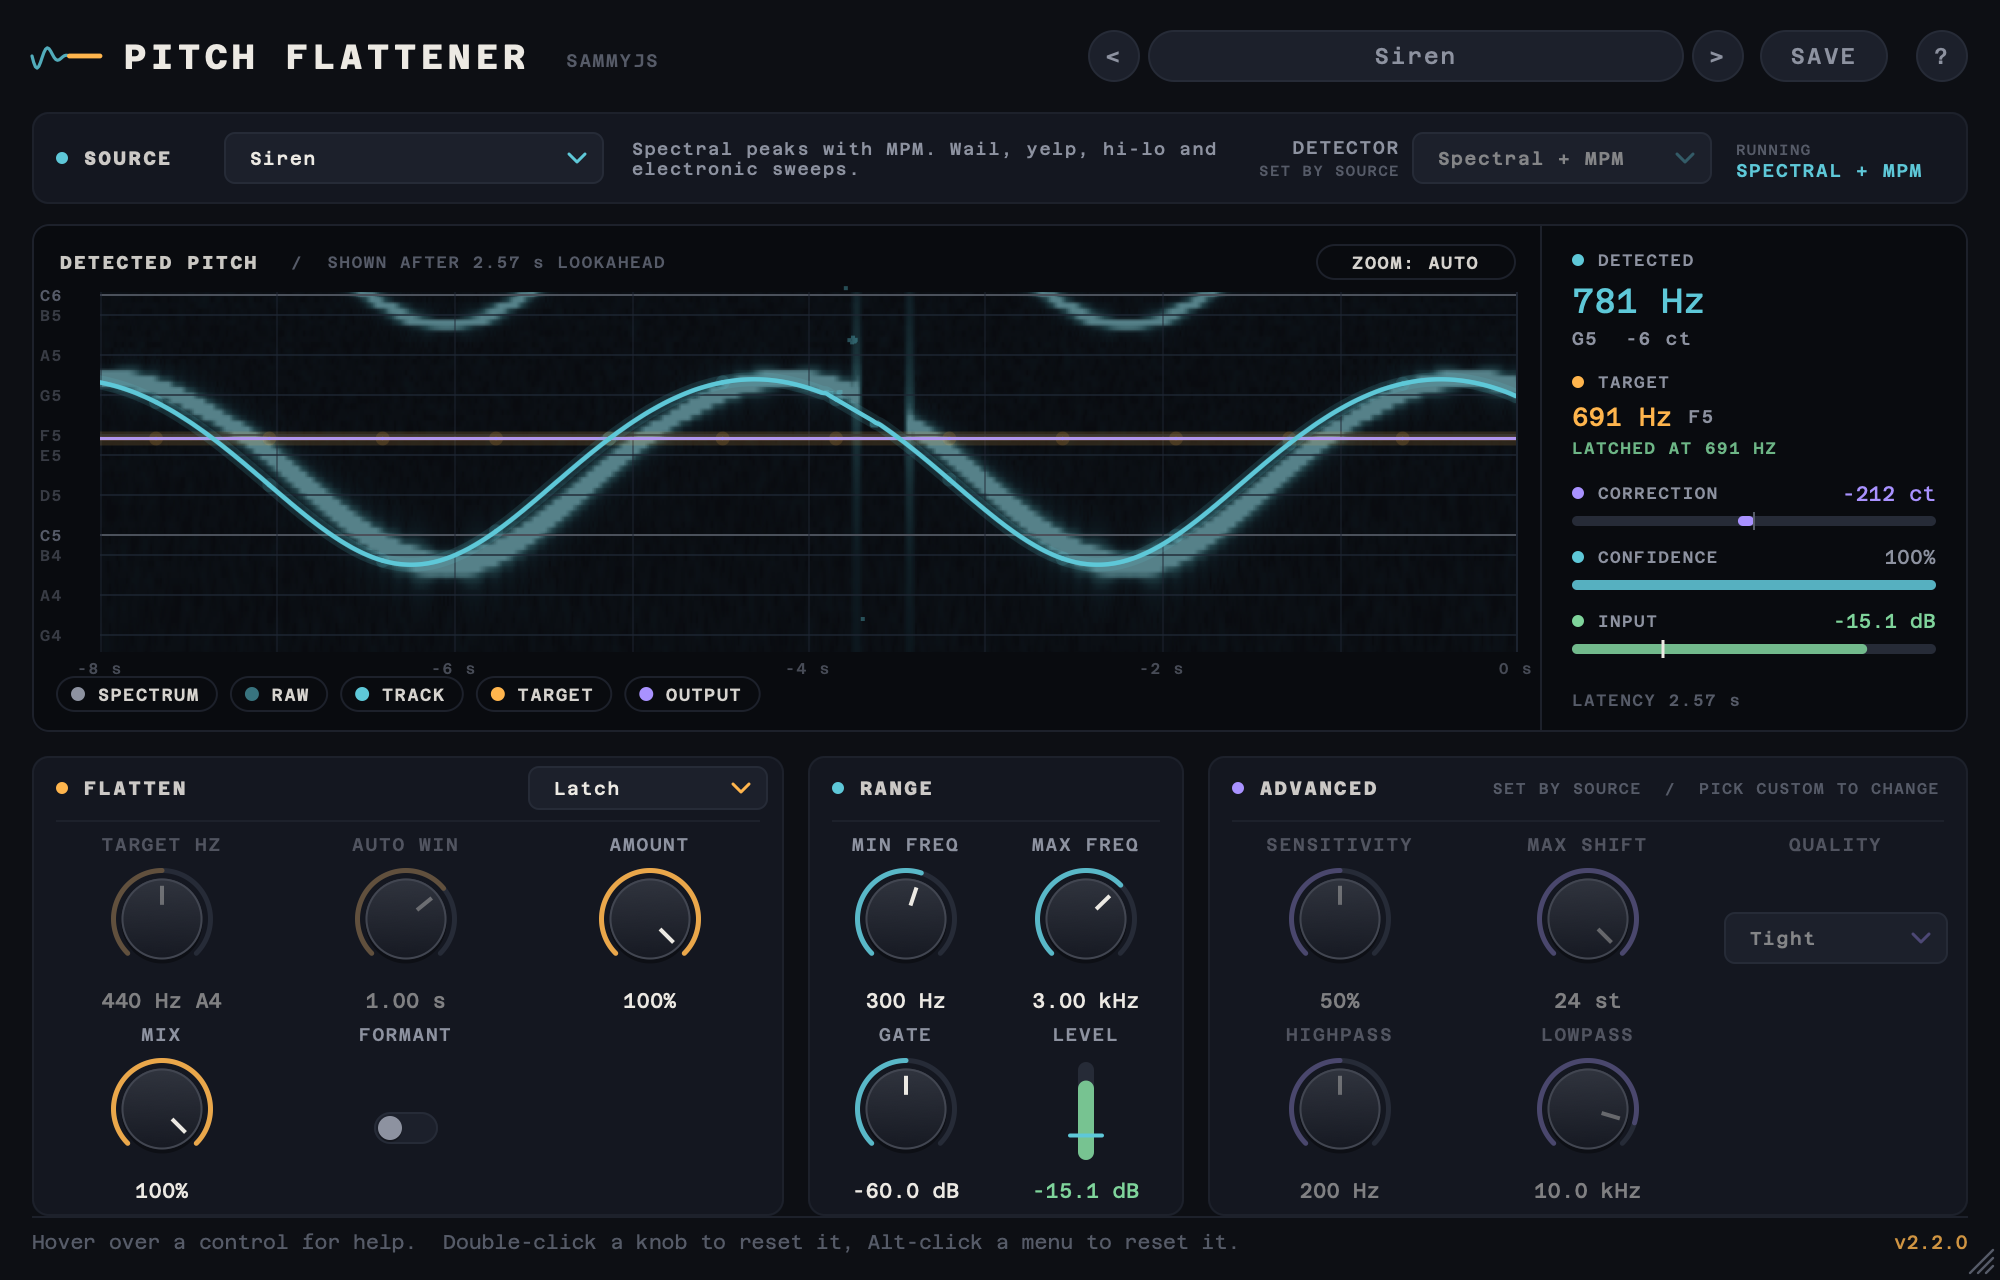
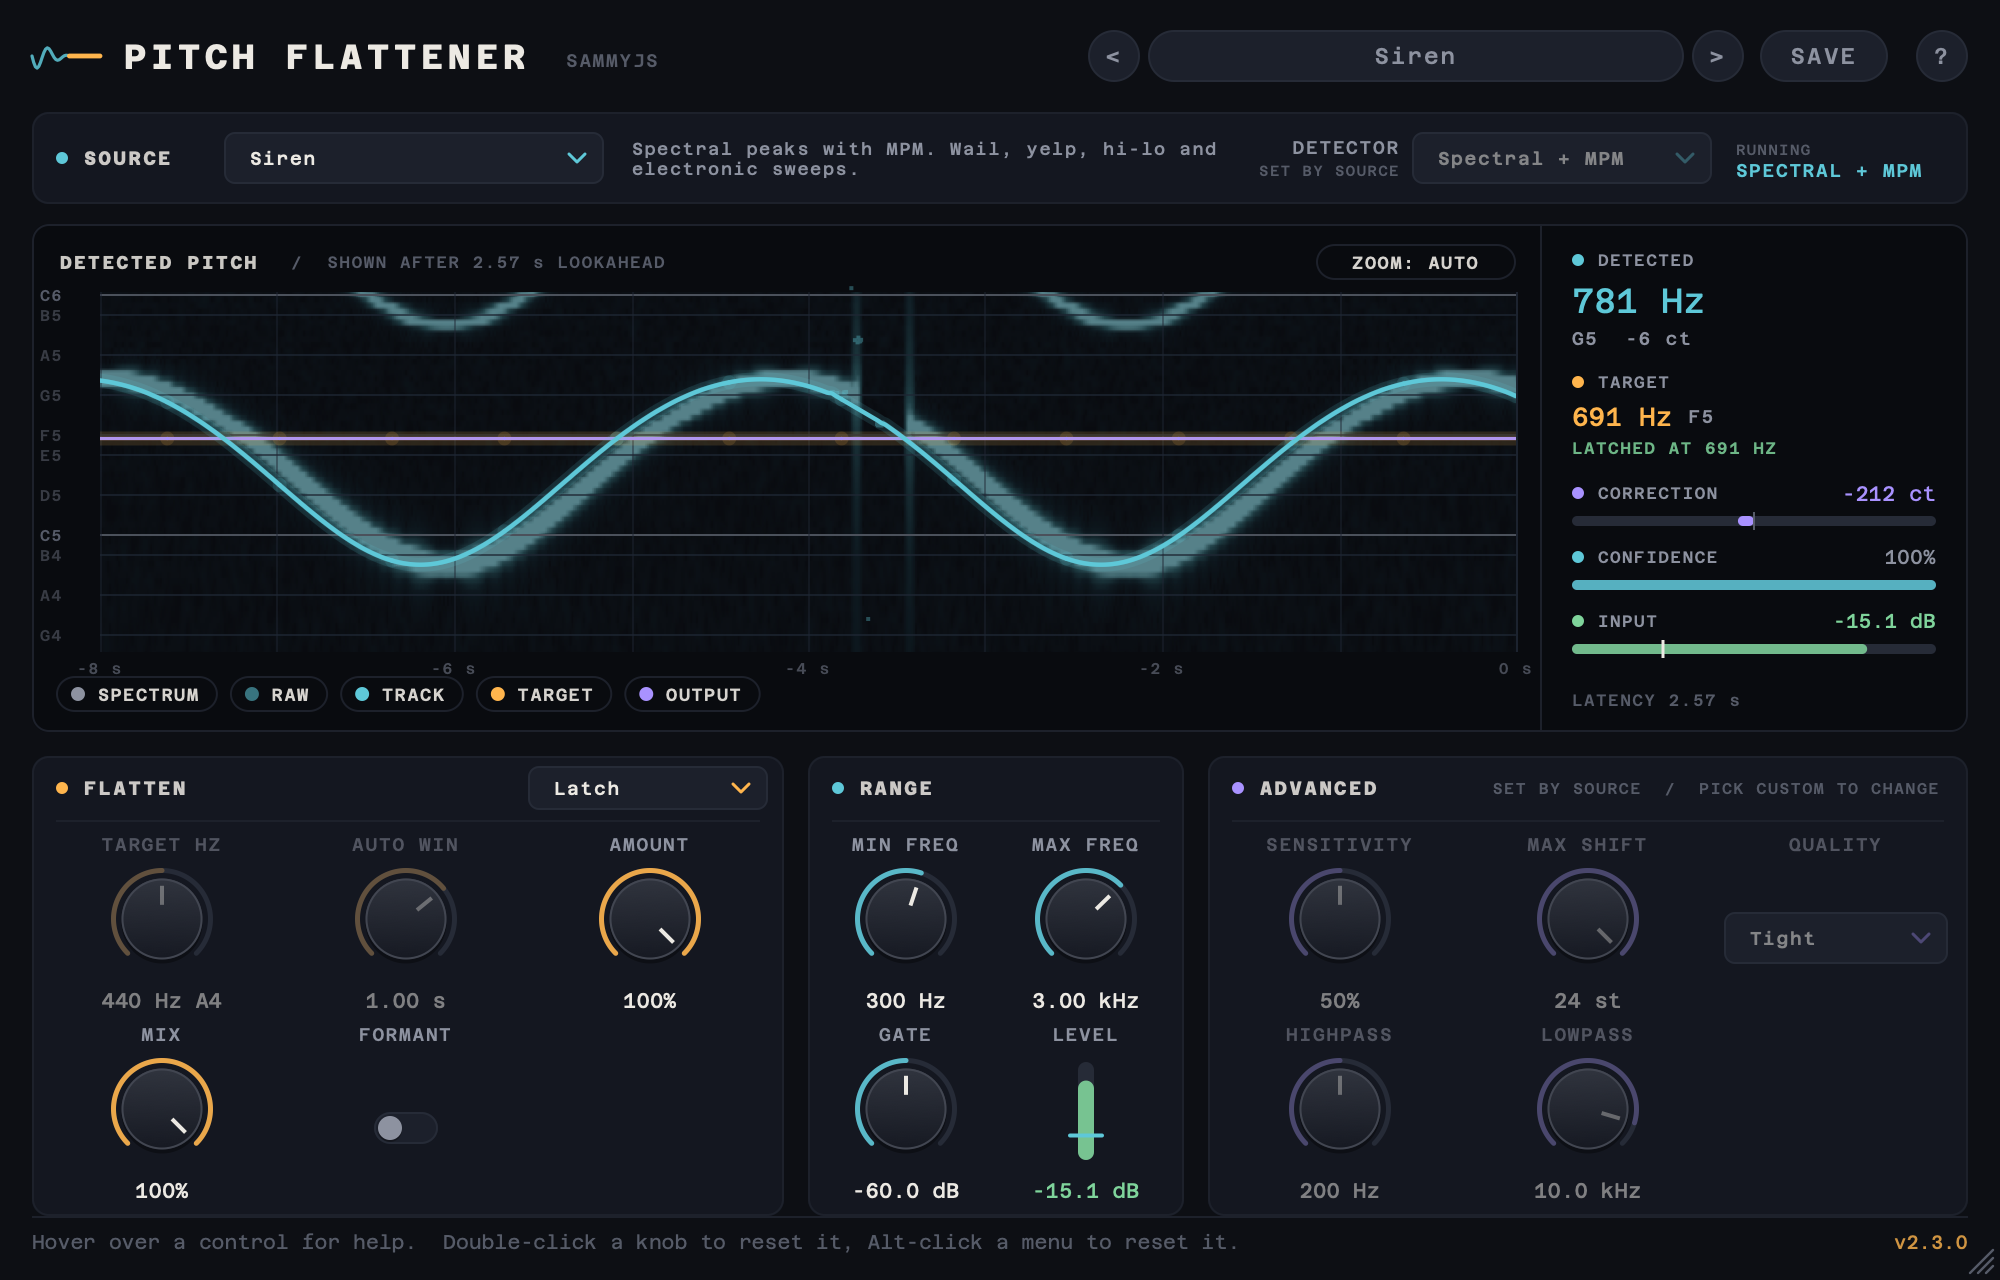
Pitch Flattener 2.3.0
Version bump (CMakeLists, installer, release script); READMEs: latest
release link and badge, v2.3.0 history line. Screenshots at 2.3.0.

diff --git a/pitchflattener/README.md b/pitchflattener/README.md
@@ -2,7 +2,7 @@
 
 A VST3/AU plugin that removes pitch movement from a sound while keeping its energy and character. Use it to take the Doppler sweep out of a pass-by, iron the wail out of a siren, take the vibrato out of a voice or instrument, or lock a warbling tone to one note so the pitch is malleable again.
 
-### 🎉 Latest Release v2.2.0 - [Download Here](https://github.com/samueljustice/plugins/releases/tag/pitchflattener-v2.2.0)
+### 🎉 Latest Release v2.3.0 - [Download Here](https://github.com/samueljustice/plugins/releases/tag/pitchflattener-v2.3.0)
 
 ![Pitch Flattener flattening a siren wail: the teal detected pitch sweeps up and down while the violet output stays on the amber target line](docs/screenshot.png)
 
@@ -159,7 +159,7 @@ The legend chips along the bottom each switch one layer on or off:
 
 #### Wobble warning
 
-![A red warning across the top of the graph: WOBBLING: OUTPUT 46 CT OFF TARGET. Siren comes out about 1.9x flatter here. With TRY SIREN and close buttons](docs/display-wobble.png)
+![A red warning across the top of the graph: WOBBLING: OUTPUT 45 CT OFF TARGET. Siren comes out about 2.0x flatter here. With TRY SIREN and close buttons](docs/display-wobble.png)
 
 While sound plays, the plugin measures the pitch of its own flattened output against the target. If the output stays well off the target (more than about 35 cents, for more than a second), a red warning appears across the graph with how far off it is.
 
@@ -393,7 +393,8 @@ Created by Samuel Justice, [www.sweetjusticesound.com](https://www.sweetjustices
 
 ## Version history
 
-- **v2.2.0**: Latch decides before a sound plays, so soft or breathy starts are flattened from the first sample instead of wobbling until it latches. A red warning appears over the display when the output is wobbling, and suggests a Source Type that comes out clearly flatter, with a button to switch to it.
+- **v2.3.0**: A simpler panel, from a measured audit of every parameter: Flatten, Range and Advanced sections; Speed, Smoothing and Gap Fill are set by the Source Type; the Re-latch button and Manual Override are gone (sessions with Override on load as Fixed at the Override pitch); Gate is limited to -80…-40 dB and Max Shift to 6…24 semitones; Whistle / Tone and Drone / Hum are retuned. Automation on Gate, Max Shift, Auto Window or the hidden controls needs recording again.
+- v2.2.0: Latch decides before a sound plays, so soft or breathy starts are flattened from the first sample instead of wobbling until it latches. A red warning appears over the display when the output is wobbling, and suggests a Source Type that comes out clearly flatter, with a button to switch to it.
 - v2.1.0: Siren uses a new detector, Spectral + MPM: fast yelps track far more closely, and the traffic noise left after a siren is no longer shifted. Siren also sets Max Shift to 24 semitones, so a siren that switches pattern (yelp, two-tone, wail) stays flat; choosing any Source Type now sets Max Shift. Saved sessions and presets keep their settings, but Detector automation recorded in a VST3 host with 2.0.x needs recording again.
 - v2.0.3: Hosts list it under **Sammy J**, alongside the other plug-ins. The sound, parameters and saved sessions are unchanged.
 - v2.0.2: Manual Override flattens to Override Hz again, in every target mode; About window copyright runs to the build year; README tour of the interface.

diff --git a/README.md b/README.md
@@ -140,7 +140,7 @@ Pitch Flattener takes the pitch movement out of a sound and keeps its energy and
 </details>
 
 **VST3** (macOS, Windows) · **AU** (macOS) &nbsp;&nbsp;
-[![Download Pitch Flattener](https://img.shields.io/badge/download-v2.2.0-d00a35?style=flat-square)](https://github.com/samueljustice/plugins/releases/tag/pitchflattener-v2.2.0) &nbsp;
+[![Download Pitch Flattener](https://img.shields.io/badge/download-v2.3.0-d00a35?style=flat-square)](https://github.com/samueljustice/plugins/releases/tag/pitchflattener-v2.3.0) &nbsp;
 [Read the manual →](pitchflattener/README.md)
 
 ---
